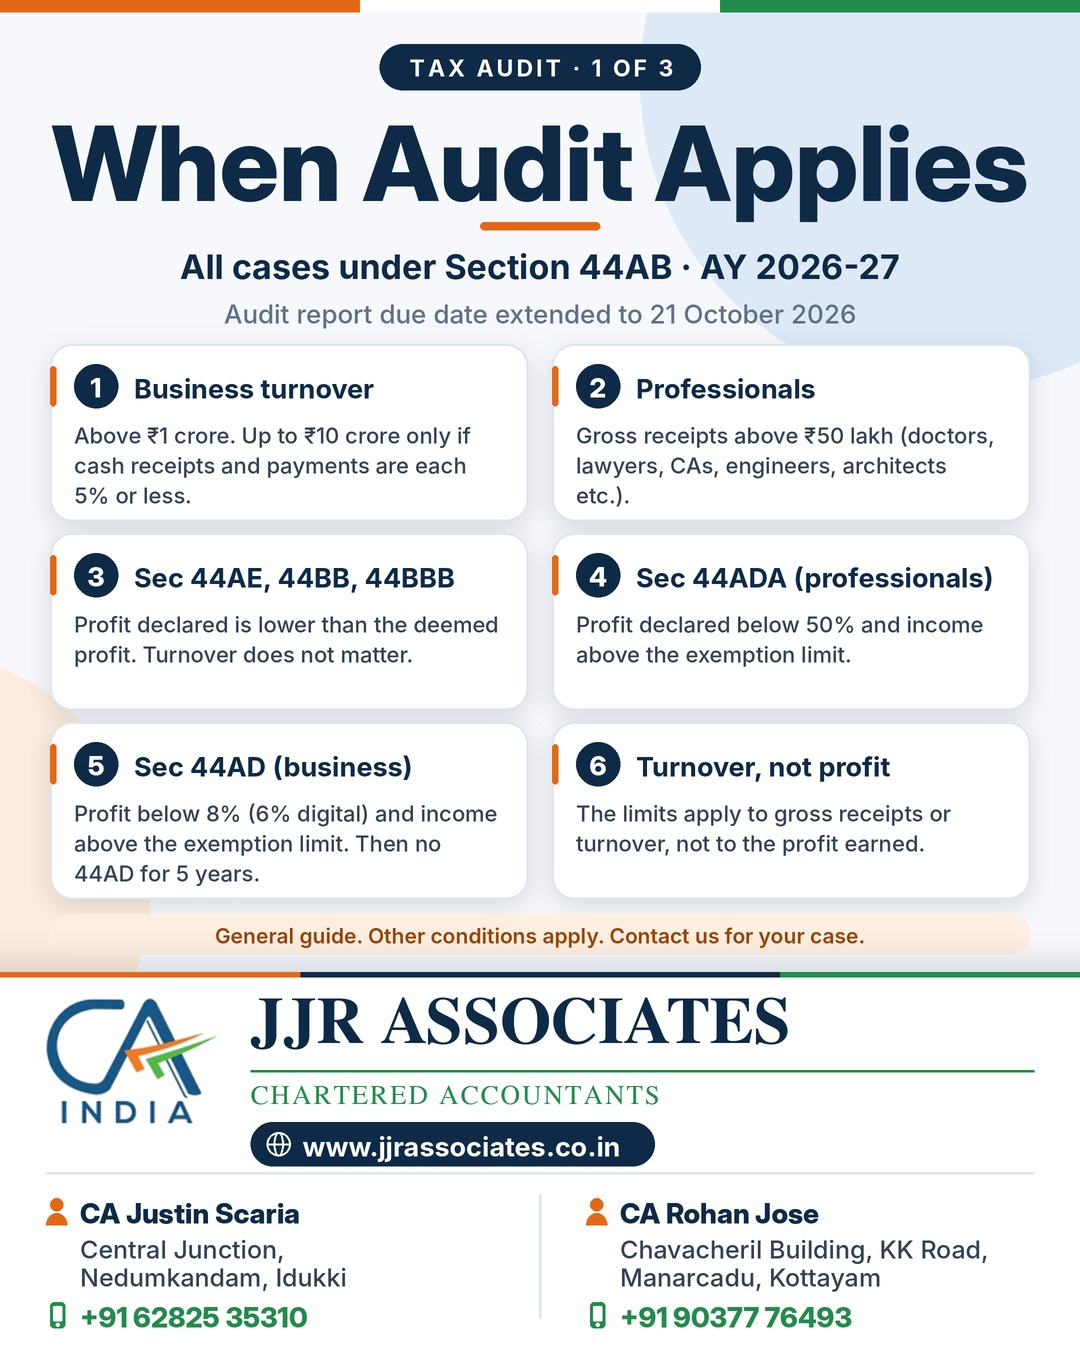
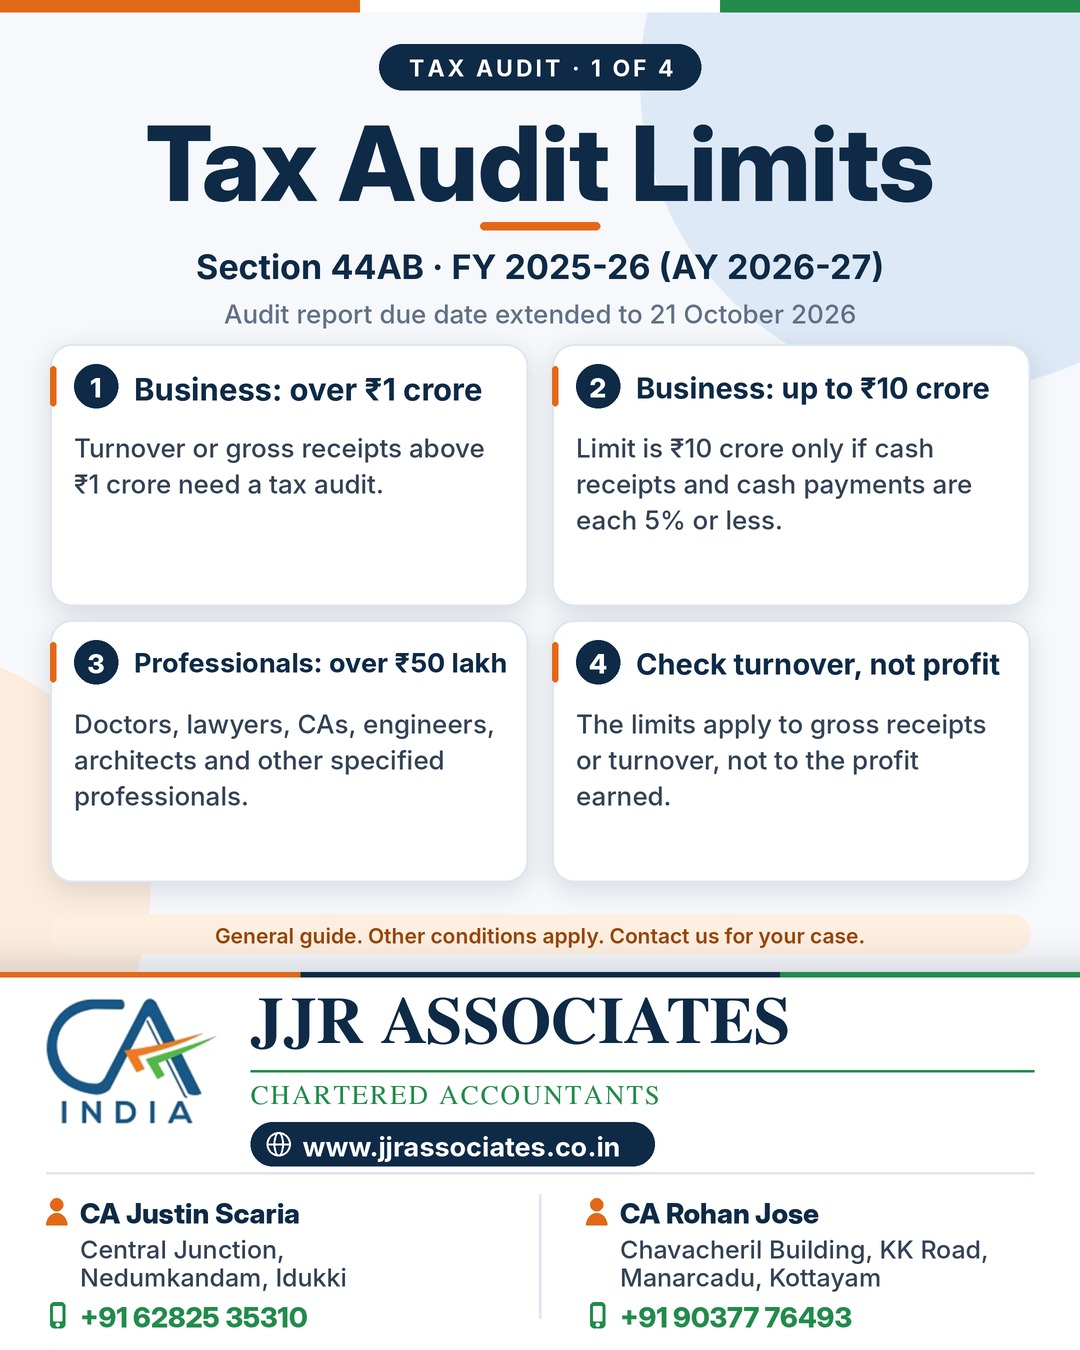
Tax audit 4-page carousel with flowchart page
Claude-Session: https://claude.ai/code/session_018fNmt2CSkVs55ubjCwMxKz

diff --git a/tools/make_flow.py b/tools/make_flow.py
@@ -1,0 +1,164 @@
+#!/usr/bin/env python3
+"""Tax audit decision-tree flowchart page (1080x1350) with the standard JJR footer. Edit the layout in this file. JJR Associates Instagram FEED POST generator (1080x1350, 4:5) for informational updates.
+Usage: python3 tools/make_post.py --chip "GST COUNCIL UPDATE" --heading "57th GST Council" \
+  --subtitle "Key takeaways from the meeting of 8 October 2026" --subline "Focus on process reform" \
+  --cards "Arrest power removed::Prosecution limit raised to Rs 5 crore|Faster refunds::Acknowledgement in 10 days" \
+  --note "Council recommendations - effective only after notification." --out posters/post.jpg
+Up to 6 cards ("Headline::detail", separated by |). Headline max ~28 chars; detail max ~85 chars."""
+import argparse, os
+ap=argparse.ArgumentParser()
+ap.add_argument("--chip",default="TAX AUDIT · 3 OF 4"); ap.add_argument("--heading",default="Do You Need a Tax Audit?"); ap.add_argument("--subtitle",default="Section 44AB · FY 2025-26 (AY 2026-27)")
+ap.add_argument("--subline",default=""); ap.add_argument("--cards",default=""); ap.add_argument("--note",default=""); ap.add_argument("--out",required=True)
+a=ap.parse_args()
+LOGO=os.path.join(os.path.dirname(os.path.abspath(__file__)),"..","assets","ca_logo.png")
+from PIL import Image, ImageDraw, ImageFont, ImageFilter
+S=2; W,H=1080,1350
+navy=(14,42,71); orange=(226,104,24); green=(34,139,76); ink=(52,66,86); mute=(96,112,134)
+bg=(246,248,252); card=(255,255,255); line=(222,229,239)
+IF="/usr/share/fonts/opentype/inter/"
+XB=IF+"InterDisplay-ExtraBold.otf"; BD=IF+"Inter-Bold.otf"; SB=IF+"Inter-SemiBold.otf"; MD=IF+"Inter-Medium.otf"
+SER="/usr/share/fonts/truetype/freefont/FreeSerifBold.ttf"; SERR="/usr/share/fonts/truetype/freefont/FreeSerif.ttf"
+img=Image.new("RGBA",(W*S,H*S),bg+(255,)); d=ImageDraw.Draw(img)
+P=lambda v:int(round(v*S))
+def F(p,s): return ImageFont.truetype(p,P(s))
+def rr(b,r,fill=None,outline=None,width=1): d.rounded_rectangle([P(b[0]),P(b[1]),P(b[2]),P(b[3])],radius=P(r),fill=fill,outline=outline,width=P(width) if outline else 0)
+def rect(b,fill): d.rectangle([P(b[0]),P(b[1]),P(b[2]),P(b[3])],fill=fill)
+def ell(b,fill=None,outline=None,width=1): d.ellipse([P(b[0]),P(b[1]),P(b[2]),P(b[3])],fill=fill,outline=outline,width=P(width) if outline else 0)
+def tw(t,font,sp=0): return (d.textlength(t,font=font)+P(sp)*(len(t)-1))/S
+def text(x,y,t,font,fill,sp=0,anchor="l",maxw=None):
+    w=tw(t,font,sp)
+    if anchor=="c": x=x-w/2
+    elif anchor=="r": x=x-w
+    if maxw: assert x+w<=maxw+0.5,(t,x+w)
+    if sp==0: d.text((P(x),P(y)),t,font=font,fill=fill)
+    else:
+        cx=P(x)
+        for ch in t:
+            d.text((cx,P(y)),ch,font=font,fill=fill); cx+=d.textlength(ch,font=font)+P(sp)
+    return w
+def shadow(b,r,blur=18,off=10,alpha=60,color=(14,42,71)):
+    global img,d
+    L=Image.new("RGBA",img.size,(0,0,0,0)); ld=ImageDraw.Draw(L)
+    ld.rounded_rectangle([P(b[0]),P(b[1]+off),P(b[2]),P(b[3]+off)],radius=P(r),fill=color+(alpha,))
+    L=L.filter(ImageFilter.GaussianBlur(P(blur))); img=Image.alpha_composite(img,L); d=ImageDraw.Draw(img)
+
+# ---------- background decoration ----------
+L=Image.new("RGBA",img.size,(0,0,0,0)); ld=ImageDraw.Draw(L)
+ld.ellipse([P(640),P(-230),P(1260),P(390)],fill=(222,233,247,255))
+ld.ellipse([P(-330),P(650),P(150),P(1130)],fill=(252,236,222,255))
+img=Image.alpha_composite(img,L); d=ImageDraw.Draw(img)
+# tricolour-inspired top strip (brand colours from the CA logo)
+rect((0,0,W,12),navy); rect((0,0,360,12),orange); rect((360,0,720,12),(255,255,255)); rect((720,0,W,12),green)
+
+
+def wrap(t,font,maxw):
+    words=t.split(); lines=[]; cur=""
+    for w in words:
+        trial=(cur+" "+w).strip()
+        if tw(trial,font)<=maxw: cur=trial
+        else: lines.append(cur); cur=w
+    lines.append(cur); return lines
+# ---------- header ----------
+def wrap(t,font,maxw):
+    words=t.split(); lines=[]; cur=""
+    for w in words:
+        trial=(cur+" "+w).strip()
+        if tw(trial,font)<=maxw: cur=trial
+        else: lines.append(cur); cur=w
+    lines.append(cur); return lines
+def fit(t,path,start,maxw):
+    sz=start
+    while sz>20 and tw(t,F(path,sz))>maxw: sz-=2
+    return F(path,sz)
+cf=F(BD,22); cw=tw(a.chip,cf,3)+56
+rr((W/2-cw/2,34,W/2+cw/2,76),21,fill=navy); text(W/2,43,a.chip,cf,(255,255,255),sp=3,anchor="c")
+text(W/2,82,a.heading,fit(a.heading,XB,66,W-70),navy,anchor="c")
+rr((W/2-50,166,W/2+50,172),3,fill=orange)
+text(W/2,182,a.subtitle,fit(a.subtitle,BD,23,W-80),mute,anchor="c")
+
+LINE=(70,86,110)
+def arrow_v(x,y0,y1,lab=None,lab_side="r"):
+    d.line([(P(x),P(y0)),(P(x),P(y1-8))],fill=LINE,width=P(3))
+    d.polygon([(P(x-8),P(y1-12)),(P(x+8),P(y1-12)),(P(x),P(y1))],fill=LINE)
+    if lab:
+        lw=tw(lab,F(XB,18),1)
+        text(x+10 if lab_side=="r" else x-10-lw,(y0+y1)/2-12,lab,F(XB,18),green,sp=1)
+def arrow_h(x0,x1,y,lab):
+    d.line([(P(x0),P(y)),(P(x1-8),P(y))],fill=LINE,width=P(3))
+    d.polygon([(P(x1-12),P(y-8)),(P(x1-12),P(y+8)),(P(x1),P(y))],fill=LINE)
+    lw=tw(lab,F(XB,18),1); text((x0+x1)/2-lw/2,y-26,lab,F(XB,18),(190,60,40),sp=1)
+def box(b,t,size=22,kind="q"):
+    fills={"q":(card,navy,navy),"ok":((226,243,233),green,(20,100,55)),"req":((253,236,222),orange,(160,70,10)),"note":((238,243,250),line,ink)}
+    f,o,c=fills[kind]
+    shadow(b,16,blur=8,off=5,alpha=26) if kind=="q" else None
+    rr(b,16,fill=f,outline=o,width=2)
+    fnt=F(BD if kind!="note" else MD,size)
+    while True:
+        lines=wrap(t,fnt,b[2]-b[0]-22)
+        lh=size*1.22
+        if len(lines)*lh<=b[3]-b[1]-10 or size<=15: break
+        size-=1; fnt=F(BD if kind!="note" else MD,size)
+    y=(b[1]+b[3])/2-len(lines)*lh/2
+    for ln in lines:
+        text((b[0]+b[2])/2,y-1,ln,fnt,c,anchor="c"); y+=lh
+LX0,LX1=40,340; RX0,RX1=560,860; LA=(LX0+LX1)/2; RA=(RX0+RX1)/2
+# column pills
+rr((LA-110,226,LA+110,262),18,fill=navy); text(LA,232,"BUSINESS",F(XB,21),(255,255,255),sp=2,anchor="c")
+rr((RA-120,226,RA+120,262),18,fill=orange); text(RA,232,"PROFESSION",F(XB,21),(255,255,255),sp=2,anchor="c")
+rows=[(290,362),(434,514),(592,686)]
+# business column
+L=["Turnover above ₹1 crore?","Cash receipts and payments each 5% or less?","Turnover above ₹10 crore?"]
+R=["Gross receipts above ₹50 lakh?","Opted for presumptive Sec 44ADA?","Receipts up to ₹75 lakh and cash receipts 5% or less?"]
+for (y0,y1),lt,rt in zip(rows,L,R):
+    box((LX0,y0,LX1,y1),lt,23); box((RX0,y0,RX1,y1),rt,23)
+for k in range(2):
+    arrow_v(LA,rows[k][1],rows[k+1][0],"YES"); arrow_v(RA,rows[k][1],rows[k+1][0],"YES")
+# side results
+SL=(384,522); SR=(904,1042)
+def side(x0,x1,row,t,kind):
+    y0,y1=rows[row]; yc=(y0+y1)/2
+    arrow_h(LX1 if x0<500 else RX1,x0,yc,"NO")
+    box((x0,yc-34,x1,yc+34),t,19,kind)
+side(*SL,0,"Audit not required","ok"); side(*SL,1,"Audit required (₹1 crore limit)","req"); side(*SL,2,"Audit not required","ok")
+side(*SR,0,"Audit not required","ok"); side(*SR,1,"Audit required (₹50 lakh limit)","req"); side(*SR,2,"Audit required (₹50 lakh limit)","req")
+# final results under third questions
+arrow_v(LA,rows[2][1],752,"YES"); box((LX0,752,LX1,806),"Audit required (₹10 crore limit)",20,"req")
+arrow_v(RA,rows[2][1],752,"YES"); box((RX0,752,RX1,806),"Audit not required (Sec 44ADA)",20,"ok")
+# presumptive notes
+box((LX0,826,522,892),"Up to ₹2 crore (₹3 crore if cash is 5% or less)? Opt for 44AD and declare 8% (6% digital): no audit.",18,"note")
+box((RX0,826,1042,892),"Up to ₹50 lakh (₹75 lakh if cash is 5% or less)? Opt for 44ADA and declare 50%: no audit.",18,"note")
+rr((40,912,W-40,956),21,fill=(253,238,224))
+note="Declaring less than the presumptive profit can bring an audit. Other laws may need audit separately."
+text(W/2,919,note,fit(note,SB,21,W-100),(150,70,10),anchor="c")
+
+# ---------- footer ----------
+FT=972
+shadow((0,FT,W,H+40),0,blur=16,off=-6,alpha=45)
+rect((0,FT,W,H),card); rect((0,FT,W,FT+5),navy); rect((0,FT,300,FT+5),orange); rect((780,FT,W,FT+5),green)
+logo=Image.open(LOGO); lh=P(126); lw=int(logo.width*lh/logo.height)
+lg=logo.resize((lw,lh),Image.LANCZOS); img.alpha_composite(lg,(P(46),P(FT+26))); d=ImageDraw.Draw(img)
+nx=46+lw/S+34
+text(nx,FT+18,"JJR ASSOCIATES",F(SER,66),navy,maxw=W-30)
+rect((nx,FT+98,W-46,FT+100),green)
+text(nx,FT+110,"CHARTERED ACCOUNTANTS",F(SERR,27),green,sp=2.2,maxw=W-30)
+wf=F(BD,27); ww=tw("www.jjrassociates.co.in",wf)
+rr((nx,FT+150,nx+ww+86,FT+194),22,fill=navy)
+gx,gy=nx+28,FT+172                                         # globe icon
+ell((gx-12,gy-12,gx+12,gy+12),outline=(255,255,255),width=2); ell((gx-5,gy-12,gx+5,gy+12),outline=(255,255,255),width=2)
+d.line([(P(gx-12),P(gy)),(P(gx+12),P(gy))],fill=(255,255,255),width=P(2))
+text(nx+52,FT+158,"www.jjrassociates.co.in",wf,(255,255,255))
+rect((46,FT+200,W-46,FT+202),line)
+def pin(x,y):
+    ell((x,y,x+22,y+22),fill=orange); d.polygon([(P(x+3),P(y+16)),(P(x+19),P(y+16)),(P(x+11),P(y+34))],fill=orange); ell((x+7,y+7,x+15,y+15),fill=(255,255,255))
+def phone_icon(x,y):
+    rr((x,y,x+15,y+26),4,fill=green); rr((x+3,y+4,x+12,y+19),1,fill=(255,255,255)); ell((x+5.5,y+20.5,x+9.5,y+24.5),fill=(255,255,255))
+def person_icon(x,y):
+    ell((x+4,y,x+17,y+13),fill=orange); d.pieslice([P(x),P(y+15),P(x+21),P(y+39)],180,360,fill=orange)
+def office(x,label,name,l1,l2,phone):
+    person_icon(x,FT+226); text(x+34,FT+224,name,F(XB,28),navy)
+    text(x+34,FT+262,l1,F(MD,25),ink,maxw=x+470); text(x+34,FT+290,l2,F(MD,25),ink,maxw=x+470)
+    phone_icon(x+4,FT+330); text(x+34,FT+328,phone,F(XB,28),green)
+office(46,"","CA Justin Scaria","Central Junction,","Nedumkandam, Idukki","+91 62825 35310")
+rect((W/2-1,FT+222,W/2+1,FT+346),line)
+office(586,"","CA Rohan Jose","Chavacheril Building, KK Road,","Manarcadu, Kottayam","+91 90377 76493")
+out=img.convert("RGB").resize((W,H),Image.LANCZOS); os.makedirs(os.path.dirname(os.path.abspath(a.out)),exist_ok=True); out.save(a.out,quality=92,optimize=True) if a.out.lower().endswith((".jpg",".jpeg")) else out.save(a.out); print(out.size)
